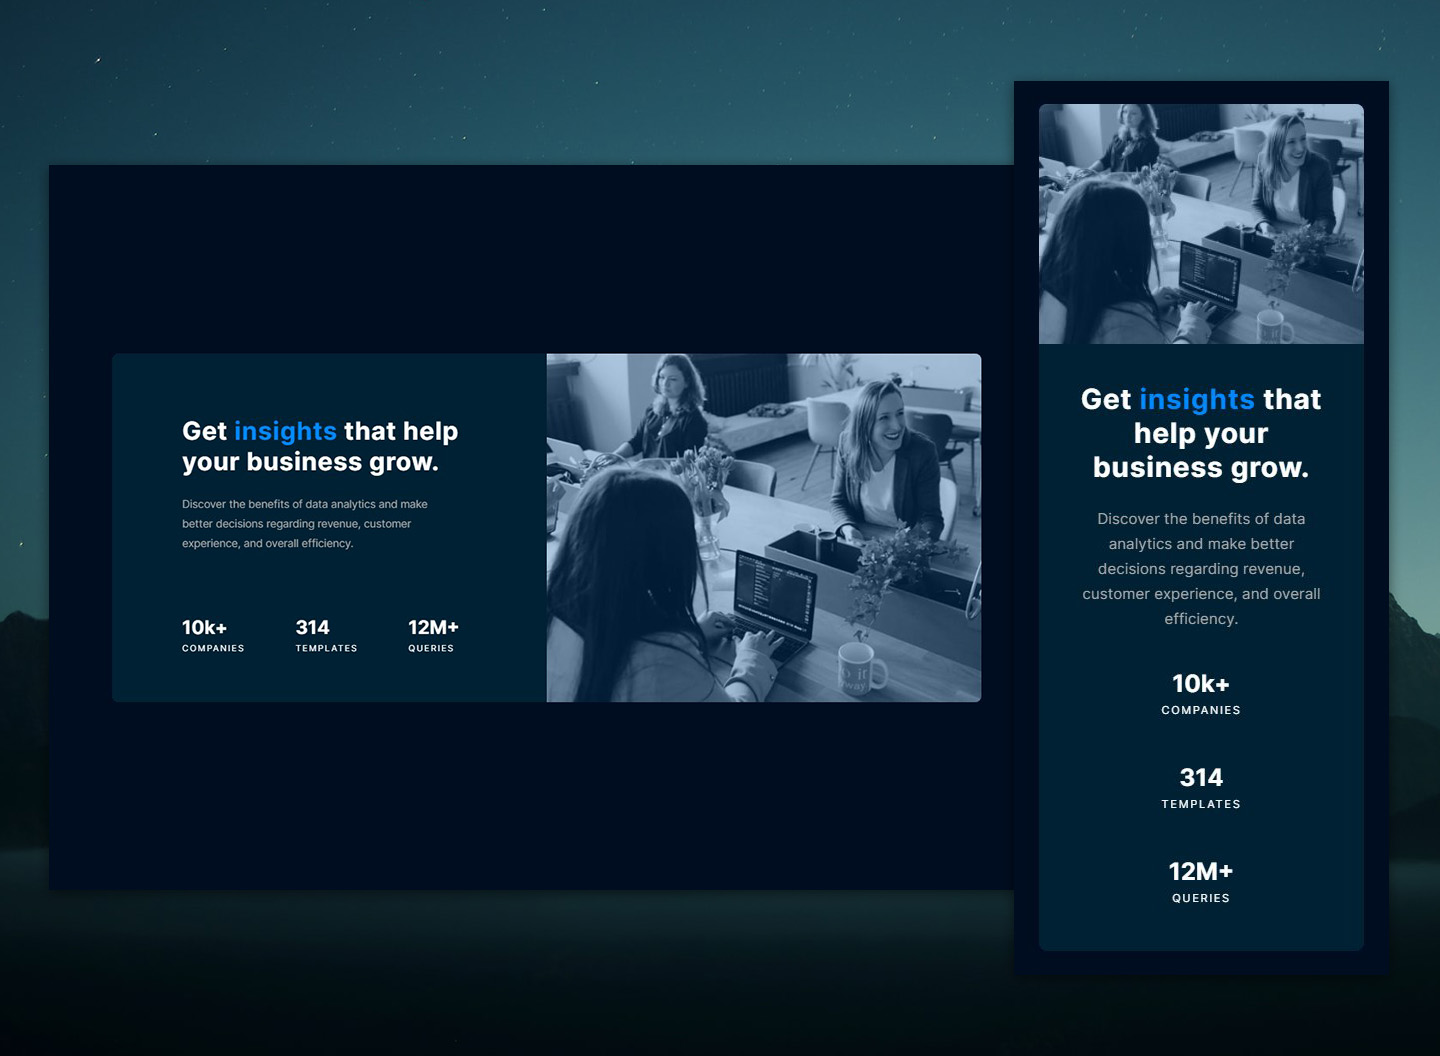
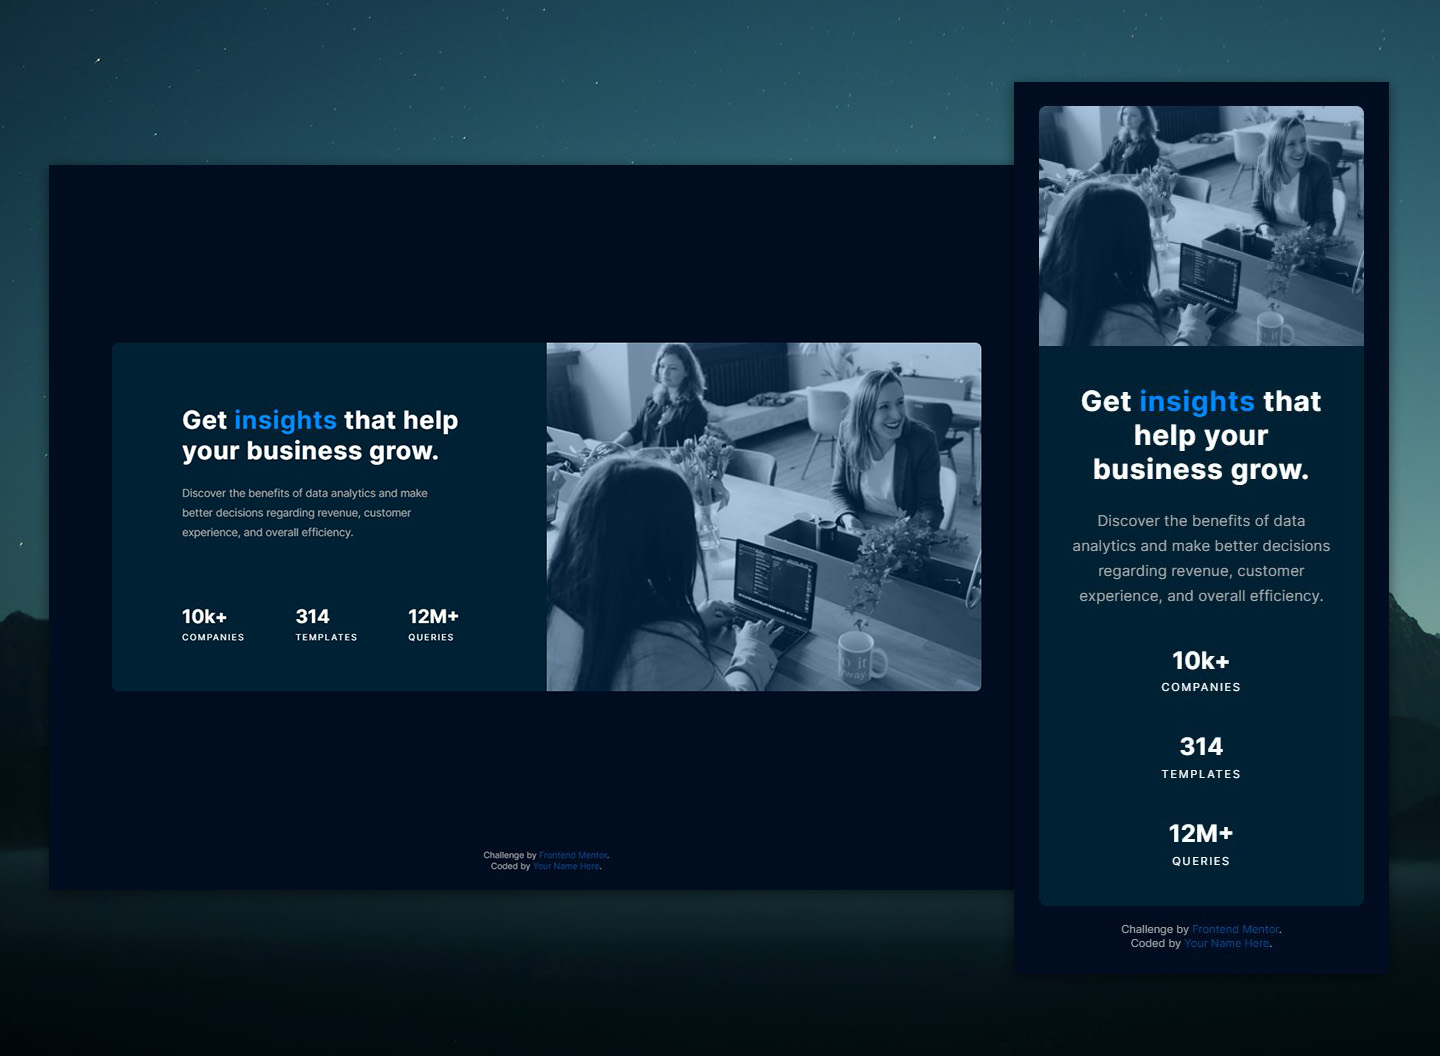
Added attribution stamp

diff --git a/index.html b/index.html
@@ -1,57 +1,71 @@
 <!DOCTYPE html>
 <html lang="en">
-<head>
-  <meta charset="UTF-8">
-  <meta name="viewport" content="width=device-width, initial-scale=1.0"> <!-- displays site properly based on user's device -->
-  <link rel="stylesheet" href="style.css">
-  <link rel="icon" type="image/png" sizes="32x32" href="./images/favicon-32x32.png">
-  
-  <title>Frontend Mentor | Stats preview card component</title>
+  <head>
+    <meta charset="UTF-8" />
+    <meta name="viewport" content="width=device-width, initial-scale=1.0" />
+    <!-- displays site properly based on user's device -->
+    <link rel="stylesheet" href="style.css" />
+    <link
+      rel="icon"
+      type="image/png"
+      sizes="32x32"
+      href="./images/favicon-32x32.png"
+    />
 
-  <!-- Feel free to remove these styles or customise in your own stylesheet 👍 -->
-  <style>
-    .attribution { font-size: 11px; text-align: center; }
-    .attribution a { color: hsl(228, 45%, 44%); }
-  </style>
-</head>
-<body>
+    <title>Frontend Mentor | Stats preview card component</title>
 
-  <div class="page-content">
-    <div class="card-box">
-      <div class="card-img-box">
-        <img 
-          alt="Women working and talking together in a cafe setting" 
-          class="card-img"
-          src="./images/image-header-desktop.jpg" 
-          srcset="./images/image-header-desktop.jpg 320px, ./images/image-header-mobile.jpg 576px"
-        >
+    <!-- Feel free to remove these styles or customise in your own stylesheet 👍 -->
+    <style>
+      .attribution {
+        font-size: 11px;
+        text-align: center;
+      }
+      .attribution a {
+        color: hsl(228, 45%, 44%);
+      }
+    </style>
+  </head>
+  <body>
+    <div class="page-content">
+      <div class="card-box">
+        <div class="card-img-box">
+          <img
+            alt="Women working and talking together in a cafe setting"
+            class="card-img"
+            src="./images/image-header-desktop.jpg"
+            srcset="./images/image-header-desktop.jpg 320px, ./images/image-header-mobile.jpg 576px"
+          />
+        </div>
+        <div class="card-desc">
+          <h1 class="card-intro">
+            Get <span class="highlight">insights</span> that help your business
+            grow.
+          </h1>
+
+          <p class="card-statement">
+            Discover the benefits of data analytics and make better decisions
+            regarding revenue, customer experience, and overall efficiency.
+          </p>
+        </div>
+        <div class="card-info">
+          <h2 class="info-header">
+            10k+ <span class="info-subheader">companies</span>
+          </h2>
+          <h2 class="info-header">
+            314 <span class="info-subheader">templates</span>
+          </h2>
+          <h2 class="info-header">
+            12M+ <span class="info-subheader">queries</span>
+          </h2>
+        </div>
       </div>
-      <div class="card-desc">
-        <h1 class="card-intro">
-          Get <span class="highlight">insights</span> that help your business grow.
-        </h1>
-      
-        <p class="card-statement">
-          Discover the benefits of data analytics and make better decisions regarding revenue, customer experience, and overall efficiency.
-        </p>
-      </div>
-      <div class="card-info">
-        <h2 class="info-header">
-          10k+ <span class="info-subheader">companies</span>
-        </h2>
-        <h2 class="info-header">
-          314 <span class="info-subheader">templates</span>
-        </h2>
-        <h2 class="info-header">
-          12M+ <span class="info-subheader">queries</span>
-        </h2>
+      <div class="attribution">
+        Challenge by
+        <a href="https://www.frontendmentor.io?ref=challenge" target="_blank"
+          >Frontend Mentor</a
+        >.
+        <div>Coded by <a href="#">Your Name Here</a>.</div>
       </div>
     </div>
-  </div>
-
-  <!-- <div class="attribution">
-    Challenge by <a href="https://www.frontendmentor.io?ref=challenge" target="_blank">Frontend Mentor</a>. 
-    Coded by <a href="#">Your Name Here</a>.
-  </div> -->
-</body>
+  </body>
 </html>

diff --git a/style.css b/style.css
@@ -25,6 +25,7 @@ body {
 .page-content {
   display: flex;
   align-items: center;
+  flex-direction: column;
   justify-content: center;
   min-height: 100vh;
   padding: 1.5rem;
@@ -51,6 +52,21 @@ h6 {
   font-family: var(--main-font);
 }
 
+.attribution {
+  font-size: 11px;
+  padding-top: 1rem;
+  text-align: center;
+}
+
+.attribution a {
+  color: #0055aa;
+  text-decoration: none;
+}
+
+.attribution a:hover {
+  text-decoration: underline;
+}
+
 /* ======================================
 CENTRAL CARD: LAYOUT
 ====================================== */
@@ -67,6 +83,7 @@ CENTRAL CARD: LAYOUT
   grid-template-columns: 1fr;
   grid-template-rows: 240px 1.15fr 1fr;
   height: 100%;
+  margin: auto;
   max-width: 325px;
   overflow: hidden;
   width: 100%;
